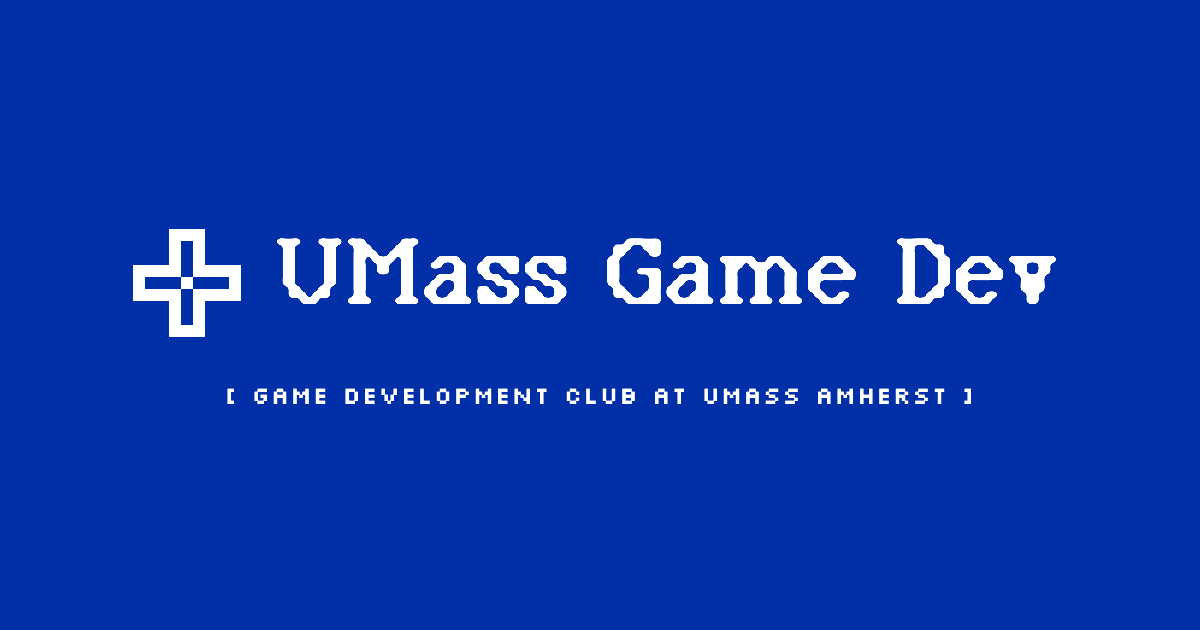
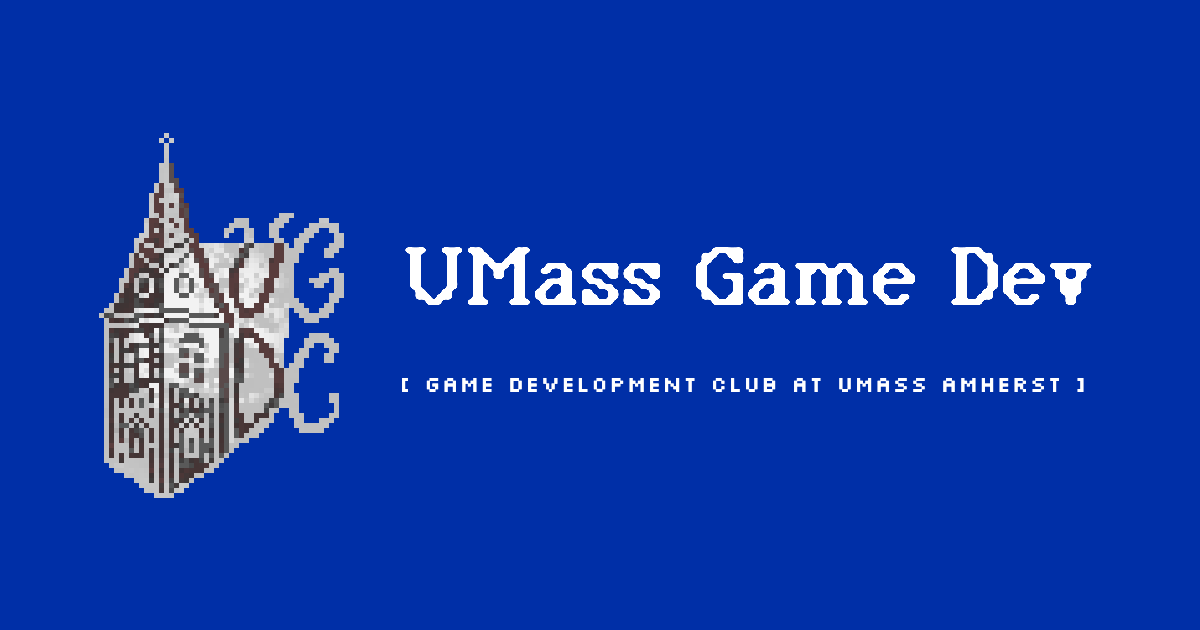
Link preview uses the pixel tower emblem

Changed region(s): [[0.0617, 0.2111, 0.925, 0.8143]]

diff --git a/index.html b/index.html
@@ -17,14 +17,14 @@
 <meta property="og:title" content="UMass Game Dev | Game Development Club at UMass Amherst">
 <meta property="og:description" content="UMass Game Dev is the game development club at UMass Amherst. We make games together, run game jams across the Pioneer Valley and ship them under one UMass label.">
 <meta property="og:url" content="https://www.umassgamedev.com/">
-<meta property="og:image" content="https://www.umassgamedev.com/og-image.png">
+<meta property="og:image" content="https://www.umassgamedev.com/og-image.png?v=2">
 <meta property="og:image:width" content="1200">
 <meta property="og:image:height" content="630">
 <meta property="og:image:alt" content="UMass Game Dev, game development club at UMass Amherst">
 <meta name="twitter:card" content="summary_large_image">
 <meta name="twitter:title" content="UMass Game Dev | Game Development Club at UMass Amherst">
 <meta name="twitter:description" content="UMass Game Dev is the game development club at UMass Amherst. We make games together, run game jams across the Pioneer Valley and ship them under one UMass label.">
-<meta name="twitter:image" content="https://www.umassgamedev.com/og-image.png">
+<meta name="twitter:image" content="https://www.umassgamedev.com/og-image.png?v=2">
 <script type="application/ld+json">[{"@context":"https://schema.org","@type":"Organization","name":"UMass Game Dev","alternateName":["UMass Game Development Club","UMass Amherst Game Dev Club","UGDC"],"url":"https://www.umassgamedev.com/","logo":"https://www.umassgamedev.com/icon-512.png","description":"UMass Game Dev is the game development club at UMass Amherst. We make games together, run game jams across the Pioneer Valley and ship them under one UMass label.","sameAs":["https://www.instagram.com/umassgamedev/","https://www.linkedin.com/company/umassgamedev/","https://discord.gg/KpcNjcHaXu"],"parentOrganization":{"@type":"CollegeOrUniversity","name":"University of Massachusetts Amherst","url":"https://www.umass.edu/"},"location":{"@type":"Place","name":"Amherst, Massachusetts"}},{"@context":"https://schema.org","@type":"WebSite","name":"UMass Game Dev","alternateName":"UGDC","url":"https://www.umassgamedev.com/"}]</script>
 <style>[hidden]:not([hidden=until-found i]){display:none!important}img{max-width:100%}body{margin:0}</style>
 <link rel="preconnect" href="https://fonts.googleapis.com">
